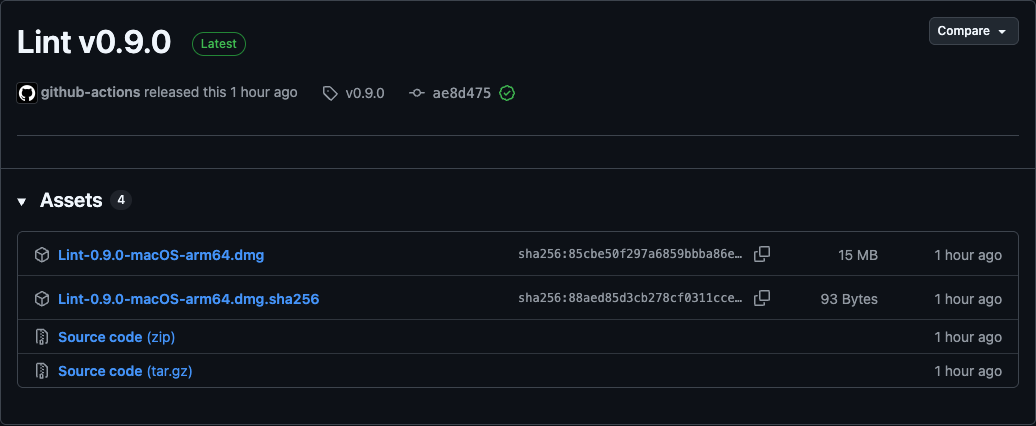
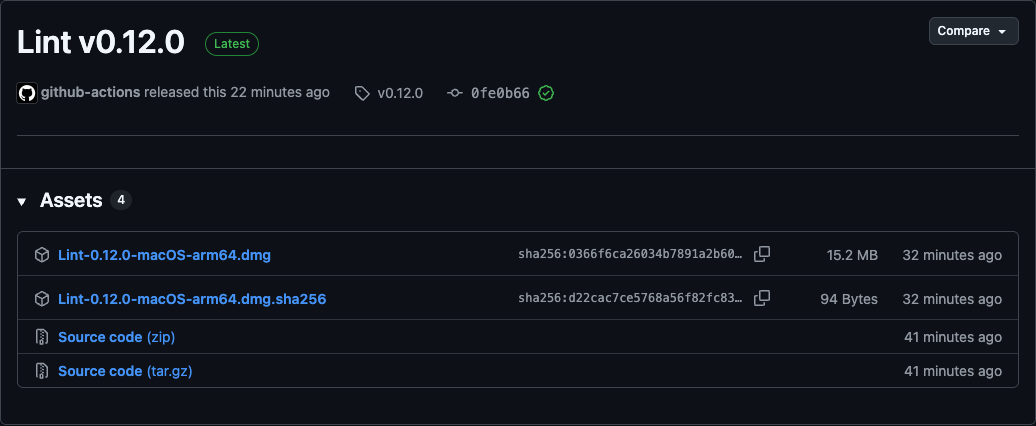
Bring the site up to 0.12.0.
The guide still pointed at 0.9.0 and said nothing of what 0.10.0 to 0.12.0
added. Both pages now cover editing a suggestion in the bubble (Edit E,
⌘⏎, esc), Idiomatic as the default tone and its note when nothing needs
changing, observation mode (a section in the guide), rich-text replace
keeping mentions and formatting, and the CPU and memory rows in the menu.
The download step names 0.12.0 and its screenshot was retaken from the
v0.12.0 release page.

diff --git a/docs/guide.html b/docs/guide.html
@@ -133,7 +133,7 @@
         <span class="zh">從下載到第一個建議，一步一步來。每一步都會告訴你，繼續之前應該看到什麼。</span>
       </p>
       <ul class="chips">
-        <li>Lint 0.9.0</li>
+        <li>Lint 0.12.0</li>
         <li>macOS 14+</li>
         <li>Apple Silicon</li>
       </ul>
@@ -165,18 +165,18 @@
       <div class="feature-grid">
         <article>
           <h3><span class="en">Works in any app</span><span class="zh">在任何 App 裡都能用</span></h3>
-          <p class="en">Select text in Mail, Notes, a browser, Slack or any other app and press a shortcut. Browsers and Electron apps work too, and when a field exposes no text, Lint copies it through the clipboard and puts your clipboard back. The bubble opens on the Space you are in, fullscreen apps included.</p>
-          <p class="zh">在郵件、備忘錄、瀏覽器、Slack 或任何 App 選取文字，按下快捷鍵就行。瀏覽器與 Electron App 也支援；輸入框讀不到文字時，Lint 會透過剪貼簿複製，再把你的剪貼簿還原。浮窗會出現在你正在使用的 Space，包含全螢幕 App。</p>
+          <p class="en">Select text in Mail, Notes, a browser, Slack or any other app and press a shortcut. Browsers and Electron apps work too: in their rich-text fields Replace writes only the changed words, so mentions, links and formatting stay. When a field exposes no text, Lint copies it through the clipboard and puts your clipboard back. The bubble opens on the Space you are in, fullscreen apps included.</p>
+          <p class="zh">在郵件、備忘錄、瀏覽器、Slack 或任何 App 選取文字，按下快捷鍵就行。瀏覽器與 Electron App 也支援：在它們的富文字輸入框裡，取代只會改寫有變動的字，提及、連結與格式都會保留。輸入框讀不到文字時，Lint 會透過剪貼簿複製，再把你的剪貼簿還原。浮窗會出現在你正在使用的 Space，包含全螢幕 App。</p>
         </article>
         <article>
           <h3><span class="en">Two ways to review</span><span class="zh">兩種檢查方式</span></h3>
-          <p class="en"><span class="kbd-inline">⌥⌘K</span> shows a small bubble with the suggestion; <span class="kbd-inline">⌥⌘L</span> opens a side-by-side panel with every change marked. Replace your text in place, copy the result or ask for a rewrite. Lint starts preparing a suggestion as soon as you select text, so it is usually ready at once.</p>
-          <p class="zh"><span class="kbd-inline">⌥⌘K</span> 以小浮窗顯示建議；<span class="kbd-inline">⌥⌘L</span> 打開雙欄面板，標出每一處修改。可以直接取代原文、複製結果，或要求重寫。你一選取文字，Lint 就開始準備建議，所以通常馬上就好。</p>
+          <p class="en"><span class="kbd-inline">⌥⌘K</span> shows a small bubble with the suggestion; <span class="kbd-inline">⌥⌘L</span> opens a side-by-side panel with every change marked. Replace your text in place, edit the suggestion first, copy the result or ask for a rewrite. Lint starts preparing a suggestion as soon as you select text, so it is usually ready at once.</p>
+          <p class="zh"><span class="kbd-inline">⌥⌘K</span> 以小浮窗顯示建議；<span class="kbd-inline">⌥⌘L</span> 打開雙欄面板，標出每一處修改。可以直接取代原文、先修改建議再取代、複製結果，或要求重寫。你一選取文字，Lint 就開始準備建議，所以通常馬上就好。</p>
         </article>
         <article>
           <h3><span class="en">Careful English editing</span><span class="zh">細心的英文潤飾</span></h3>
-          <p class="en"><strong>Proofread &amp; polish</strong> fixes grammar, wrong words and spelling, and tries to keep correct wording, names, numbers and your layout as they are. Pick a tone (Preserve Tone, Idiomatic, which also rewrites correct English that a native speaker would not write and keeps your voice, Formal, Casual or Concise; all but Preserve Tone also write Chinese as English), use <strong>Translate</strong> to read English text in the translation language you choose (Traditional Chinese by default), or write a <strong>Custom prompt</strong>.</p>
-          <p class="zh"><strong>「文法校對與潤飾」</strong>修正文法、用錯的字與拼字，並盡量保留正確的用字、人名、數字與版面。可以選語氣（保留原語氣、「道地」：也改寫文法正確但母語者不會這樣說的英文，並保留你的語氣、正式、輕鬆或簡潔；除了保留原語氣，都會把中文寫成英文），用<strong>「翻譯」</strong>把英文翻成你選的翻譯語言來閱讀（預設繁體中文），或寫<strong>「自訂 Prompt」</strong>。</p>
+          <p class="en"><strong>Proofread &amp; polish</strong> fixes grammar, wrong words and spelling, and tries to keep correct wording, names, numbers and your layout as they are. Pick a tone (Idiomatic, the default, which also rewrites correct English that a native speaker would not write, untangles a sentence put together wrong and keeps your voice; Preserve Tone; Formal, Casual or Concise; all but Preserve Tone also write Chinese as English), use <strong>Translate</strong> to read English text in the translation language you choose (Traditional Chinese by default), or write a <strong>Custom prompt</strong>.</p>
+          <p class="zh"><strong>「文法校對與潤飾」</strong>修正文法、用錯的字與拼字，並盡量保留正確的用字、人名、數字與版面。可以選語氣（預設的「道地」：也改寫文法正確但母語者不會這樣說的英文、把組得不對的句子理順，並保留你的語氣；保留原語氣；正式、輕鬆或簡潔；除了保留原語氣，都會把中文寫成英文），用<strong>「翻譯」</strong>把英文翻成你選的翻譯語言來閱讀（預設繁體中文），或寫<strong>「自訂 Prompt」</strong>。</p>
         </article>
         <article>
           <h3><span class="en">Your text stays on your Mac</span><span class="zh">文字留在你的 Mac 上</span></h3>
@@ -185,8 +185,8 @@
         </article>
         <article>
           <h3><span class="en">Memory and dreaming (optional)</span><span class="zh">記憶與作夢（選用）</span></h3>
-          <p class="en">Turn on Memory and Lint writes down the mistakes you correct as short rules, stored only on your Mac, reminds the model of them from the next suggestion on, and forgets the ones that don’t come back while it dreams. You can read and delete every memory. <a href="#learning">How memory and dreaming work</a></p>
-          <p class="zh">開啟記憶後，Lint 會把你修正過的錯誤記成簡短規則，只存在你的 Mac，下一次建議就開始提醒模型，沒有再出現的會在作夢時忘記。每一條記憶都能查看與刪除。<a href="#learning">記憶與作夢怎麼運作</a></p>
+          <p class="en">Turn on Memory and Lint writes down the mistakes you correct as short rules, stored only on your Mac, reminds the model of them from the next suggestion on, and forgets the ones that don’t come back while it dreams. Observation Mode also learns from the text you actually send. You can read and delete every memory. <a href="#learning">How memory and dreaming work</a></p>
+          <p class="zh">開啟記憶後，Lint 會把你修正過的錯誤記成簡短規則，只存在你的 Mac，下一次建議就開始提醒模型，沒有再出現的會在作夢時忘記。「觀察模式」還會從你實際送出的文字學習。每一條記憶都能查看與刪除。<a href="#learning">記憶與作夢怎麼運作</a></p>
         </article>
         <article>
           <h3><span class="en">Made to fit you</span><span class="zh">依你的習慣調整</span></h3>
@@ -217,16 +217,16 @@
 
       <article class="step">
         <div class="step-head"><span class="step-num">1</span><h3><span class="en">Download the DMG</span><span class="zh">下載 DMG</span></h3></div>
-        <p class="en">Open <a href="https://github.com/davislinyd/Lint/releases/latest" target="_blank" rel="noopener noreferrer">the latest release on GitHub</a> and click <code>Lint-0.9.0-macOS-arm64.dmg</code> under <strong>Assets</strong>. A newer release has a newer number in the name.</p>
-        <p class="zh">打開 <a href="https://github.com/davislinyd/Lint/releases/latest" target="_blank" rel="noopener noreferrer">GitHub 上的最新版本</a>，在 <strong>Assets</strong> 下點 <code>Lint-0.9.0-macOS-arm64.dmg</code>。之後的版本檔名裡的版本號會不同。</p>
+        <p class="en">Open <a href="https://github.com/davislinyd/Lint/releases/latest" target="_blank" rel="noopener noreferrer">the latest release on GitHub</a> and click <code>Lint-0.12.0-macOS-arm64.dmg</code> under <strong>Assets</strong>. A newer release has a newer number in the name.</p>
+        <p class="zh">打開 <a href="https://github.com/davislinyd/Lint/releases/latest" target="_blank" rel="noopener noreferrer">GitHub 上的最新版本</a>，在 <strong>Assets</strong> 下點 <code>Lint-0.12.0-macOS-arm64.dmg</code>。之後的版本檔名裡的版本號會不同。</p>
         <p class="check en">The DMG is in your Downloads folder.</p>
         <p class="check zh">「下載項目」資料夾裡有這個 DMG。</p>
         <figure>
-          <a class="shot flat" href="assets/guide/shared/github-release.png" target="_blank" rel="noopener"><img src="assets/guide/shared/github-release.png" alt="The Lint v0.9.0 release on GitHub with the DMG under Assets" width="1036" height="426" loading="lazy"></a>
+          <a class="shot flat" href="assets/guide/shared/github-release.png" target="_blank" rel="noopener"><img src="assets/guide/shared/github-release.png" alt="The Lint v0.12.0 release on GitHub with the DMG under Assets" width="1036" height="426" loading="lazy"></a>
           <figcaption><span class="en">Click the <code>.dmg</code> file under Assets.</span><span class="zh">在 Assets 下點 <code>.dmg</code> 檔。</span></figcaption>
         </figure>
-        <div class="note en"><p><strong>Optional:</strong> to check the download, also get <code>Lint-0.9.0-macOS-arm64.dmg.sha256</code>, then run <code>shasum -a 256 -c Lint-0.9.0-macOS-arm64.dmg.sha256</code> in Terminal, in the folder that holds both files. It prints <code>OK</code>.</p></div>
-        <div class="note zh"><p><strong>選用：</strong>想確認下載無誤，可以一併下載 <code>Lint-0.9.0-macOS-arm64.dmg.sha256</code>，在放著這兩個檔案的資料夾打開「終端機」，執行 <code>shasum -a 256 -c Lint-0.9.0-macOS-arm64.dmg.sha256</code>，會印出 <code>OK</code>。</p></div>
+        <div class="note en"><p><strong>Optional:</strong> to check the download, also get <code>Lint-0.12.0-macOS-arm64.dmg.sha256</code>, then run <code>shasum -a 256 -c Lint-0.12.0-macOS-arm64.dmg.sha256</code> in Terminal, in the folder that holds both files. It prints <code>OK</code>.</p></div>
+        <div class="note zh"><p><strong>選用：</strong>想確認下載無誤，可以一併下載 <code>Lint-0.12.0-macOS-arm64.dmg.sha256</code>，在放著這兩個檔案的資料夾打開「終端機」，執行 <code>shasum -a 256 -c Lint-0.12.0-macOS-arm64.dmg.sha256</code>，會印出 <code>OK</code>。</p></div>
       </article>
     </section>
 
@@ -352,8 +352,12 @@
         <div class="step-head"><span class="step-num">7</span><h3><span class="en">Quick check: <span class="kbd-inline">⌥⌘K</span></span><span class="zh">快速檢查：<span class="kbd-inline">⌥⌘K</span></span></h3></div>
         <p class="en">Select some English text, or just put the cursor in a text field, and press <span class="kbd-inline">⌥⌘K</span>. Lint starts preparing a suggestion as soon as you select text, so it usually appears at once.</p>
         <p class="zh">選取一段英文，或只把游標放在輸入框裡，按 <span class="kbd-inline">⌥⌘K</span>。Lint 在你選取文字時就開始準備建議，所以通常會立刻出現。</p>
-        <p class="en">A bubble shows the suggestion, with a reference translation underneath (in your translation language, Traditional Chinese by default) to help you check the meaning. Press <span class="kbd-inline">⏎</span> to replace your text, <span class="kbd-inline">R</span> to rewrite, or <span class="kbd-inline">esc</span> to close. To keep only part of it, press <span class="kbd-inline">E</span> and edit the suggestion right there, then press <span class="kbd-inline">⌘⏎</span> to replace your text with your version. With Memory on, Lint learns from what you changed.</p>
-        <p class="zh">浮窗會顯示建議，下方附參考譯文（用你設定的翻譯語言，預設繁體中文），方便你核對意思。按 <span class="kbd-inline">⏎</span> 取代原文、<span class="kbd-inline">R</span> 重寫、<span class="kbd-inline">esc</span> 關閉。只想接受一部分時，按 <span class="kbd-inline">E</span> 直接在浮窗裡修改建議，再按 <span class="kbd-inline">⌘⏎</span> 用你的版本取代原文。開啟記憶時，Lint 會從你改的地方學習。</p>
+        <p class="en">A bubble shows the suggestion, with a reference translation underneath (in your translation language, Traditional Chinese by default) to help you check the meaning. Its buttons are <strong>Replace ⏎</strong>, <strong>Edit E</strong>, <strong>Rewrite R</strong> and <strong>Close esc</strong>.</p>
+        <p class="zh">浮窗會顯示建議，下方附參考譯文（用你設定的翻譯語言，預設繁體中文），方便你核對意思。按鈕依序是<strong>「取代 ⏎」</strong>、<strong>「編輯 E」</strong>、<strong>「重寫 R」</strong>與<strong>「關閉 esc」</strong>。</p>
+        <p class="en">To keep only part of it, press <span class="kbd-inline">E</span> and edit the suggestion right in the bubble. There <span class="kbd-inline">⏎</span> starts a new line and <span class="kbd-inline">⌘⏎</span> replaces your text with your version; <span class="kbd-inline">esc</span> ends the edit and keeps it, and a second <span class="kbd-inline">esc</span> closes the bubble. With Lint's local AI or Apple Intelligence, the reference translation follows your edit as you type. With Memory on, Lint learns from what you changed.</p>
+        <p class="zh">只想接受一部分時，按 <span class="kbd-inline">E</span> 直接在浮窗裡修改建議。編輯時 <span class="kbd-inline">⏎</span> 是換行，<span class="kbd-inline">⌘⏎</span> 用你的版本取代原文；<span class="kbd-inline">esc</span> 結束編輯並保留修改，再按一次 <span class="kbd-inline">esc</span> 關閉浮窗。使用 Lint 本機 AI 或 Apple Intelligence 時，參考譯文會跟著你的修改更新。開啟記憶時，Lint 會從你改的地方學習。</p>
+        <p class="en">When the text needs no changes, the bubble says so. After Preserve Tone, <strong>Rewrite R</strong> becomes <strong>Idiomatic R</strong> to try the Idiomatic tone instead.</p>
+        <p class="zh">文字不需要修改時，浮窗會直接告訴你；在「保留原語氣」下，<strong>「重寫 R」</strong>會變成<strong>「改用道地 R」</strong>，讓你改試「道地」語氣。</p>
         <figure>
           <a class="shot en" href="assets/guide/en/bubble.png" target="_blank" rel="noopener"><img src="assets/guide/en/bubble.png" alt="The suggestion bubble next to the selected sentence" width="872" height="604" loading="lazy"></a>
           <a class="shot zh" href="assets/guide/zh/bubble.png" target="_blank" rel="noopener"><img src="assets/guide/zh/bubble.png" alt="選取的句子旁的建議浮窗" width="872" height="604" loading="lazy"></a>
@@ -367,12 +371,12 @@
         <p class="zh">選取文字後按 <span class="kbd-inline">⌥⌘L</span>。全面板左邊是原文（可以直接修改），右邊是標出修改處的結果。</p>
         <ul class="en">
           <li><strong>Mode</strong>: Proofread &amp; polish, Translate, or Custom prompt.</li>
-          <li><strong>Tone</strong>: Preserve Tone, Idiomatic (proofreading only), Formal, Casual or Concise.</li>
+          <li><strong>Tone</strong>: Preserve Tone, Idiomatic (proofreading only, and its default until you pick another), Formal, Casual or Concise.</li>
           <li><strong>Replace Original</strong> <span class="kbd-inline">⌘⏎</span>, <strong>Copy</strong> <span class="kbd-inline">⌥⌘C</span>, <strong>Retry</strong> <span class="kbd-inline">⌥⌘⏎</span>. Tick <strong>Edit</strong> to change the result before you use it.</li>
         </ul>
         <ul class="zh">
           <li><strong>模式</strong>：文法校對與潤飾、翻譯，或自訂 Prompt。</li>
-          <li><strong>語氣</strong>：保留原語氣、「道地」（只有校對有）、正式、輕鬆或簡潔。</li>
+          <li><strong>語氣</strong>：保留原語氣、「道地」（只有校對有，在你選別的語氣之前是預設）、正式、輕鬆或簡潔。</li>
           <li><strong>覆蓋取代</strong> <span class="kbd-inline">⌘⏎</span>、<strong>複製</strong> <span class="kbd-inline">⌥⌘C</span>、<strong>重試</strong> <span class="kbd-inline">⌥⌘⏎</span>。勾選<strong>「編輯」</strong>可以先修改結果再使用。</li>
         </ul>
         <div class="note en"><p><strong>Write it in Chinese</strong> when you know what you mean but not how to say it. Select Chinese or mixed text with Idiomatic, Formal, Casual or Concise, and Lint writes it the way a native English speaker would, always in English. For example, 「抱歉，這個需求我們這季排不進去，下季再評估看看。」 becomes “Sorry, we can't fit this request into this quarter. Let's reassess it next quarter.” In Formal, 「我覺得這個方案風險太高，建議我們先做小範圍測試，再決定要不要全面上線。」 becomes “I believe this proposal carries too much risk. I suggest we conduct a small-scale test first before deciding on a full-scale launch.” The reference translation under the suggestion shows what the English says. Read the result before you replace the original: the small local model sometimes rewords text that was already natural.</p></div>
@@ -393,8 +397,8 @@
 
       <article class="step">
         <div class="step-head"><span class="step-num">9</span><h3><span class="en">The menu bar menu</span><span class="zh">選單列選單</span></h3></div>
-        <p class="en">Click Lint's icon, a pen nib with a check mark. The first row shows the local model's state: not loaded, loading, running, idle (its memory was released after a while without suggestions), restarting or failed; the dot on the icon shows the same. Open that row to switch to another model or to Apple Intelligence (a model that is not downloaded yet shows its size and asks first; its download progress then shows in that row, and it starts when it is in), or to start, stop, restart or recheck the local server. Below it are <strong>Improve Selected Text</strong>, the <strong>Mode</strong> and <strong>Tone</strong>, whether Accessibility is on, <strong>Set Up Local AI…</strong> (until the local AI is set up), <strong>Check for Updates…</strong>, the version, <strong>Diagnostic Log…</strong>, <strong>Settings…</strong> and <strong>Quit Lint</strong>. When a newer release is found, the menu also offers to download and install it.</p>
-        <p class="zh">點選單列上 Lint 的圖示（筆尖加一個勾）。第一行顯示本機模型的狀態：未載入、載入中、運作中、閒置中（一段時間沒要求建議後已釋放記憶體）、重啟中或失敗，圖示上的小圓點也會顯示同樣的狀態。展開這一行可以切換到其他模型或 Apple Intelligence（還沒下載的模型會先列出大小並詢問，同意後下載進度就顯示在這一行，下載完成後自動啟動），也可以啟動、停止、重新啟動或重新檢查本機服務。下面是<strong>「改善選取文字」</strong>、切換<strong>「模式」</strong>與<strong>「語氣」</strong>、輔助功能是否已開啟、<strong>「設定本機 AI…」</strong>（本機 AI 設定好之前才有）、<strong>「檢查更新…」</strong>、版本號、<strong>「診斷記錄…」</strong>，以及<strong>「設定…」</strong>與<strong>「結束 Lint」</strong>。找到較新的正式版時，選單也會提供下載並安裝。</p>
+        <p class="en">Click Lint's icon, a pen nib with a check mark. The first row shows the local model's state: not loaded, loading, running, idle (its memory was released after a while without suggestions), restarting or failed; the dot on the icon shows the same. Open that row to switch to another model or to Apple Intelligence (a model that is not downloaded yet shows its size and asks first; its download progress then shows in that row, and it starts when it is in), or to start, stop, restart or recheck the local server. Below it are <strong>Improve Selected Text</strong>, the <strong>Mode</strong> and <strong>Tone</strong>, whether Accessibility is on, the CPU and memory that Lint and the AI model use (counted as Activity Monitor does and updated every second while the menu is open; while a local model is loaded, the size of its model file is listed too, since its weights are not counted in that memory), <strong>Set Up Local AI…</strong> (until the local AI is set up), <strong>Check for Updates…</strong>, the version, <strong>Diagnostic Log…</strong>, <strong>Settings…</strong> and <strong>Quit Lint</strong>. When a newer release is found, the menu also offers to download and install it.</p>
+        <p class="zh">點選單列上 Lint 的圖示（筆尖加一個勾）。第一行顯示本機模型的狀態：未載入、載入中、運作中、閒置中（一段時間沒要求建議後已釋放記憶體）、重啟中或失敗，圖示上的小圓點也會顯示同樣的狀態。展開這一行可以切換到其他模型或 Apple Intelligence（還沒下載的模型會先列出大小並詢問，同意後下載進度就顯示在這一行，下載完成後自動啟動），也可以啟動、停止、重新啟動或重新檢查本機服務。下面是<strong>「改善選取文字」</strong>、切換<strong>「模式」</strong>與<strong>「語氣」</strong>、輔助功能是否已開啟、Lint 與 AI 模型使用的 CPU 和記憶體（算法與活動監視器相同，選單開著時每秒更新；本機模型載入時還會列出模型檔大小，因為模型權重不算在這個記憶體裡）、<strong>「設定本機 AI…」</strong>（本機 AI 設定好之前才有）、<strong>「檢查更新…」</strong>、版本號、<strong>「診斷記錄…」</strong>，以及<strong>「設定…」</strong>與<strong>「結束 Lint」</strong>。找到較新的正式版時，選單也會提供下載並安裝。</p>
         <figure>
           <a class="shot en" href="assets/guide/en/menu.png" target="_blank" rel="noopener"><img src="assets/guide/en/menu.png" alt="The Lint menu in the menu bar, with the local model row open" width="829" height="329" loading="lazy"></a>
           <a class="shot zh" href="assets/guide/zh/menu.png" target="_blank" rel="noopener"><img src="assets/guide/zh/menu.png" alt="選單列中的 Lint 選單，展開了本機模型那一行" width="649" height="329" loading="lazy"></a>
@@ -478,8 +482,8 @@
 
       <article class="step">
         <div class="step-head"><span class="step-num">14</span><h3><span class="en">Turn on Memory</span><span class="zh">開啟記憶</span></h3></div>
-        <p class="en">Open <strong>Settings… → Memory</strong> and turn on <strong>Enable Memory</strong>. The counts start at 0 and grow as you use Lint.</p>
-        <p class="zh">打開<strong>「設定… → 記憶」</strong>，開啟<strong>「啟用記憶」</strong>。記憶數從 0 開始，會隨著你使用 Lint 增加。</p>
+        <p class="en">Open <strong>Settings… → Memory</strong> and turn on <strong>Enable Memory</strong>. The counts start at 0 and grow as you use Lint. Below it you can also turn on <strong>Observation Mode</strong> (see <a href="#observation">Observation mode</a>).</p>
+        <p class="zh">打開<strong>「設定… → 記憶」</strong>，開啟<strong>「啟用記憶」</strong>。記憶數從 0 開始，會隨著你使用 Lint 增加。下方還可以開啟<strong>「觀察模式」</strong>（見<a href="#observation">「觀察模式」</a>）。</p>
         <figure>
           <a class="shot en" href="assets/guide/en/settings-memory.png" target="_blank" rel="noopener"><img src="assets/guide/en/settings-memory.png" alt="Settings, Memory pane with Enable Memory turned on and a Dreaming section" width="984" height="812" loading="lazy"></a>
           <a class="shot zh" href="assets/guide/zh/settings-memory.png" target="_blank" rel="noopener"><img src="assets/guide/zh/settings-memory.png" alt="設定的「記憶」頁，已開啟「啟用記憶」，下方是「作夢」" width="984" height="812" loading="lazy"></a>
@@ -514,6 +518,23 @@
             <li>只保存抽象後的規則：一個字、一小段詞組或模板句，不保存周圍的文字。數字、網址、路徑、縮寫與大寫開頭的人名不會被記下。</li>
             <li>Lint 認不出中文人名或全小寫的英文名，被你修正過的名字仍可能進入記憶；可以在<strong>「管理記憶…」</strong>找到並刪除。</li>
             <li>你對建議做了什麼，只以帶金鑰的雜湊記錄，不含文字；金鑰放在你的鑰匙圈。</li>
+          </ul>
+        </article>
+        <article id="observation">
+          <h3><span class="en">Observation mode</span><span class="zh">觀察模式</span></h3>
+          <ul class="en">
+            <li>Optional and off by default; it needs Memory on. After a suggestion, Lint keeps reading that field until the text is sent (the field empties), the field goes away or 10 minutes pass without a change, and notes whether the suggestion was used, looked at and left, or never opened. Only proofreading is followed. Password fields and password managers are never read.</li>
+            <li>The text is only compared in memory, never written to disk. The database gets a count per app that fades with time and, for a suggestion you looked at and did not use, keyed hashes.</li>
+            <li>From what you sent, Lint learns what to leave alone. A word you put back after Replace becomes a memory to keep it, used from the next suggestion on. A change you looked at and sent without becomes one the second time it happens, under Preserve Tone and Idiomatic only, since the other tones rewrite on purpose.</li>
+            <li>It also learns your style: contractions or full forms you keep, no period at the end of a message, a lowercase start. One you keep in at least 80% of 8 or more recent cases is written into a memory of your style while dreaming, which you can edit or delete like any other.</li>
+            <li>Dreaming also adjusts Lint per app. In an app where 30 recent suggestions went unused, nothing is prepared on its own any more; <span class="kbd-inline">⌥⌘K</span> still checks, and using it there ends the quiet. In an app where at least 80% of the suggestions you used lately were in one tone, automatic suggestions use that tone until you pick one by hand. Settings → Memory lists each adjustment with a <strong>Remove</strong> button and shows the <strong>Recent adoption rate</strong>.</li>
+          </ul>
+          <ul class="zh">
+            <li>選用功能，預設關閉，需要先啟用記憶。給過建議後，Lint 會繼續讀取那個輸入框，直到文字送出（輸入框清空）、輸入框消失，或 10 分鐘沒有變動，並記下建議是被採用、看過沒用，還是從未打開。只追蹤校對的建議。密碼欄位與密碼管理 App 一律不讀。</li>
+            <li>文字只在記憶體裡比對，不會寫入磁碟。資料庫只會多出各 App 會隨時間淡出的次數，以及「看過但沒採用」的建議的帶金鑰雜湊。</li>
+            <li>Lint 會從你送出的文字學到哪些地方不要改。取代後你又改回原字，就記成「保留這個字」的記憶，下一次建議就開始使用。你看過、但送出時沒有採用的改動，第二次發生時才會成為記憶，而且只限「保留原語氣」與「道地」，因為其他語氣本來就會改寫。</li>
+            <li>它也會學你的寫法：保留縮寫或完整寫法、訊息結尾不加句點、開頭用小寫。近期至少 8 次、其中 80% 以上都保留的寫法，會在作夢時寫成一條「你的寫法」記憶，和其他記憶一樣可以修改或刪除。</li>
+            <li>作夢也會依 App 調整 Lint。某個 App 裡近期 30 次建議都沒被採用，Lint 就不再自動為它準備建議；<span class="kbd-inline">⌥⌘K</span> 仍可檢查，在那裡用一次就會恢復。某個 App 裡近期採用的建議至少 80% 是同一種語氣，那裡的自動建議就改用那種語氣，直到你手動選語氣。「設定 → 記憶」會列出每項調整並附<strong>「移除」</strong>按鈕，也會顯示<strong>「近期採用率」</strong>。</li>
           </ul>
         </article>
         <article>

diff --git a/docs/index.html b/docs/index.html
@@ -180,7 +180,7 @@
       <figure class="hero-shot">
         <a class="shot en" href="assets/guide/en/bubble.png" target="_blank" rel="noopener"><img src="assets/guide/en/bubble.png" alt="The Lint suggestion bubble next to a selected sentence" width="872" height="604"></a>
         <a class="shot zh" href="assets/guide/zh/bubble.png" target="_blank" rel="noopener"><img src="assets/guide/zh/bubble.png" alt="選取的句子旁出現 Lint 的建議浮窗" width="872" height="604" loading="lazy"></a>
-        <figcaption><span class="en"><span class="kbd-inline">⌥⌘K</span> shows a suggestion right where you are writing, with a reference translation below it.</span><span class="zh"><span class="kbd-inline">⌥⌘K</span> 在你寫字的地方直接顯示建議，下方附上參考譯文。</span></figcaption>
+        <figcaption><span class="en"><span class="kbd-inline">⌥⌘K</span> shows a suggestion right where you are writing, with a reference translation below it. Press <span class="kbd-inline">E</span> to edit it there before you replace your text.</span><span class="zh"><span class="kbd-inline">⌥⌘K</span> 在你寫字的地方直接顯示建議，下方附上參考譯文。按 <span class="kbd-inline">E</span> 可以先在浮窗裡修改，再取代原文。</span></figcaption>
       </figure>
     </div>
   </section>
@@ -206,8 +206,8 @@
         </li>
         <li>
           <span class="step-num">4</span>
-          <p class="en">Replace your text, or copy the result</p>
-          <p class="zh">取代原文，或複製結果</p>
+          <p class="en">Replace your text, edit the suggestion first, or copy the result</p>
+          <p class="zh">取代原文、先修改建議再取代，或複製結果</p>
         </li>
       </ol>
     </div>
@@ -219,8 +219,8 @@
         <h2><span class="en">Every change, side by side</span><span class="zh">每一處修改，並排比對</span></h2>
         <p class="en"><span class="kbd-inline">⌥⌘L</span> opens a panel with your text on the left and the suggestion on the right, every change marked. Edit either side, replace the original, copy it, or ask again.</p>
         <p class="zh"><span class="kbd-inline">⌥⌘L</span> 打開雙欄面板，左邊是原文，右邊是建議，每一處修改都標出來。兩邊都能編輯，可以取代原文、複製，或重新產生。</p>
-        <p class="en"><strong>Proofread &amp; polish</strong> fixes grammar, wrong words and spelling, and keeps correct wording, names, numbers and your layout. Pick a tone: Preserve Tone, Idiomatic, Formal, Casual or Concise.</p>
-        <p class="zh"><strong>「文法校對與潤飾」</strong>修正文法、用錯的字與拼字，保留正確的用字、人名、數字與版面。語氣可選保留原語氣、「道地」、正式、輕鬆或簡潔。</p>
+        <p class="en"><strong>Proofread &amp; polish</strong> fixes grammar, wrong words and spelling, and keeps correct wording, names, numbers and your layout. Pick a tone: Idiomatic (the default), Preserve Tone, Formal, Casual or Concise. Idiomatic also rewrites English a native speaker would not write and untangles a sentence put together wrong, while keeping your voice. When nothing needs changing, Lint says so.</p>
+        <p class="zh"><strong>「文法校對與潤飾」</strong>修正文法、用錯的字與拼字，保留正確的用字、人名、數字與版面。語氣可選「道地」（預設）、保留原語氣、正式、輕鬆或簡潔。「道地」也會改寫母語者不會這樣說的英文，並把組得不對的句子理順，同時保留你的語氣。不需要修改時，Lint 會直接告訴你。</p>
         <p class="en"><strong>Write it in Chinese</strong> when you know what you mean but not how to say it: Idiomatic, Formal, Casual and Concise say it the way a native English speaker would, always in English. 「抱歉，這個需求我們這季排不進去，下季再評估看看。」 becomes “Sorry, we can't fit this request into this quarter. Let's reassess it next quarter.” Text that mixes Chinese and English is written all in English or keeps its Chinese, as you choose in Settings.</p>
         <p class="zh"><strong>直接寫中文</strong>：知道想說什麼、卻不知道英文怎麼說的時候，「道地」「正式」「輕鬆」「簡潔」會用英語母語者會說的方式寫成英文。「抱歉，這個需求我們這季排不進去，下季再評估看看。」會變成 “Sorry, we can't fit this request into this quarter. Let's reassess it next quarter.”。中英夾雜的文字要整段寫成英文還是保留中文，可在設定中選擇。</p>
       </div>
@@ -255,11 +255,13 @@
           <li>Or point Lint at an OpenAI-compatible endpoint such as Ollama or LM Studio.</li>
           <li>The local server only listens on 127.0.0.1, and API keys are kept in the Keychain.</li>
           <li>Switch models and start or stop the server right from the menu bar; its icon shows whether the model is loaded.</li>
+          <li>The menu also shows the CPU and memory Lint and its model use, counted as Activity Monitor does.</li>
         </ul>
         <ul class="ticks zh">
           <li>也可以改接 Ollama、LM Studio 等 OpenAI 相容端點。</li>
           <li>本機服務只監聽 127.0.0.1，API Key 存在鑰匙圈。</li>
           <li>在選單列就能切換模型、啟動或停止服務；圖示會顯示模型是否已載入。</li>
+          <li>選單也會顯示 Lint 與模型用了多少 CPU 和記憶體，算法與活動監視器相同。</li>
         </ul>
       </div>
       <figure>
@@ -275,15 +277,17 @@
         <h2><span class="en">Memory and dreaming, if you want them</span><span class="zh">記憶與作夢，想用再開</span></h2>
         <p class="en">Turn on Settings → Memory and Lint writes down the writing habits you keep correcting, such as a word you often misspell, as short rules, and reminds the model of them from the next suggestion on. While it dreams, it forgets the ones that don't come back. It is off by default.</p>
         <p class="zh">在「設定 → 記憶」開啟後，Lint 會把你反覆修正的寫作習慣（例如常拼錯的字）記成簡短規則，下一次建議就開始提醒模型；作夢時會忘掉沒再出現的。預設關閉。</p>
+        <p class="en">Add <strong>Observation Mode</strong> and Lint follows a suggestion to the text you actually send: it learns what you want left alone and your own way of writing, goes quiet in an app where you never use its suggestions, and uses the tone you favor in each app.</p>
+        <p class="zh">再開啟<strong>「觀察模式」</strong>，Lint 會一路看到你實際送出的文字：學會哪些地方你不想被改、你自己的寫法，在從不採用建議的 App 裡安靜下來，並在各 App 改用你常用的語氣。</p>
         <ul class="ticks en">
           <li>Everything stays on your Mac, in a database only you can read.</li>
-          <li>Only abstracted rules are kept, never the text around them.</li>
-          <li>Every memory can be read, pinned, disabled or deleted.</li>
+          <li>Only abstracted rules are kept, never the text around them; observed text is only compared in memory.</li>
+          <li>Every memory and per-app adjustment can be read and removed.</li>
         </ul>
         <ul class="ticks zh">
           <li>全部只存在你的 Mac，資料庫只有你本人可讀。</li>
-          <li>只保存抽象後的規則，不保存周圍的文字。</li>
-          <li>每一條記憶都能查看、釘選、停用或刪除。</li>
+          <li>只保存抽象後的規則，不保存周圍的文字；觀察到的文字只在記憶體裡比對。</li>
+          <li>每一條記憶與各 App 的調整都能查看與移除。</li>
         </ul>
       </div>
       <figure>
@@ -349,8 +353,8 @@
         </article>
         <article class="feature-card">
           <h3><span class="en">Replace that stays careful</span><span class="zh">謹慎的取代</span></h3>
-          <p class="en">Replace writes only over the text Lint checked. If that text changed in the meantime, Lint leaves your field alone.</p>
-          <p class="zh">取代只會寫在 Lint 檢查過的那段原文上；原文若在這之間被改動，Lint 就不動你的輸入框。</p>
+          <p class="en">Replace writes only over the text Lint checked. If that text changed in the meantime, Lint leaves your field alone. In a rich-text field in a browser or an Electron app, only the changed words are written, so mentions, links and formatting stay.</p>
+          <p class="zh">取代只會寫在 Lint 檢查過的那段原文上；原文若在這之間被改動，Lint 就不動你的輸入框。在瀏覽器或 Electron App 的富文字輸入框裡，只會改寫有變動的字，提及、連結與格式都會保留。</p>
         </article>
         <article class="feature-card">
           <h3><span class="en">Your own shortcuts and prompts</span><span class="zh">自訂快捷鍵與提示詞</span></h3>
